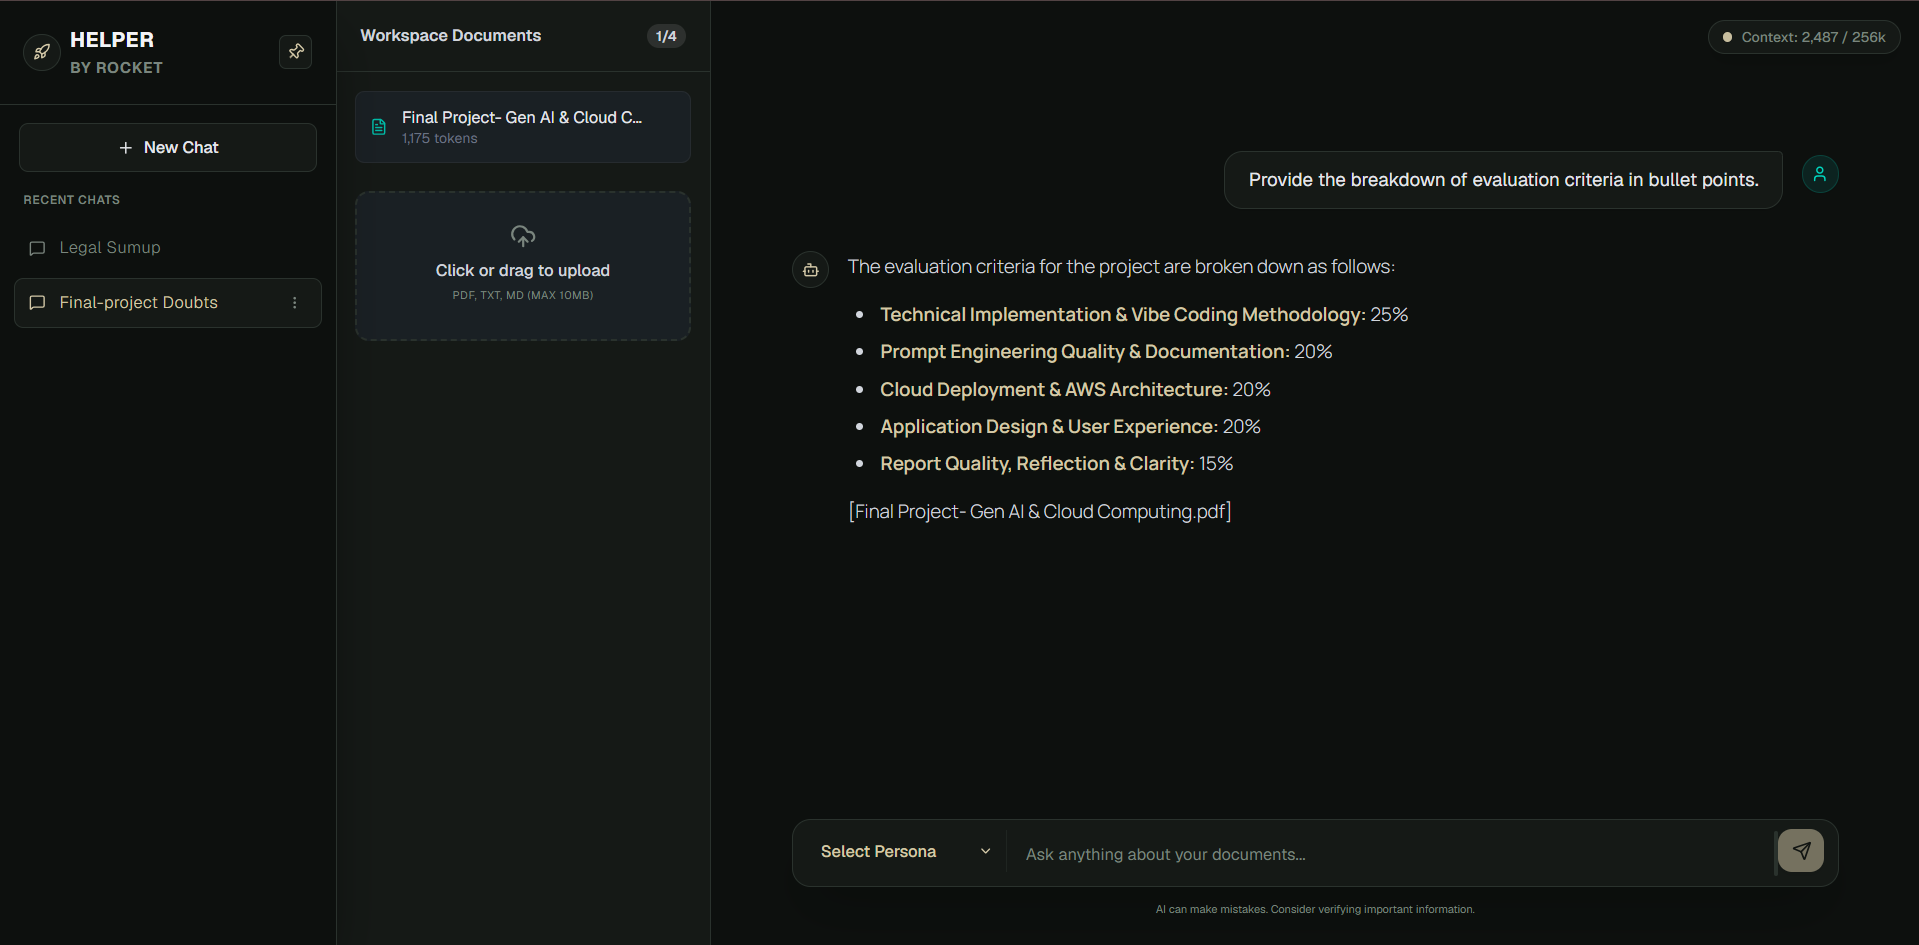
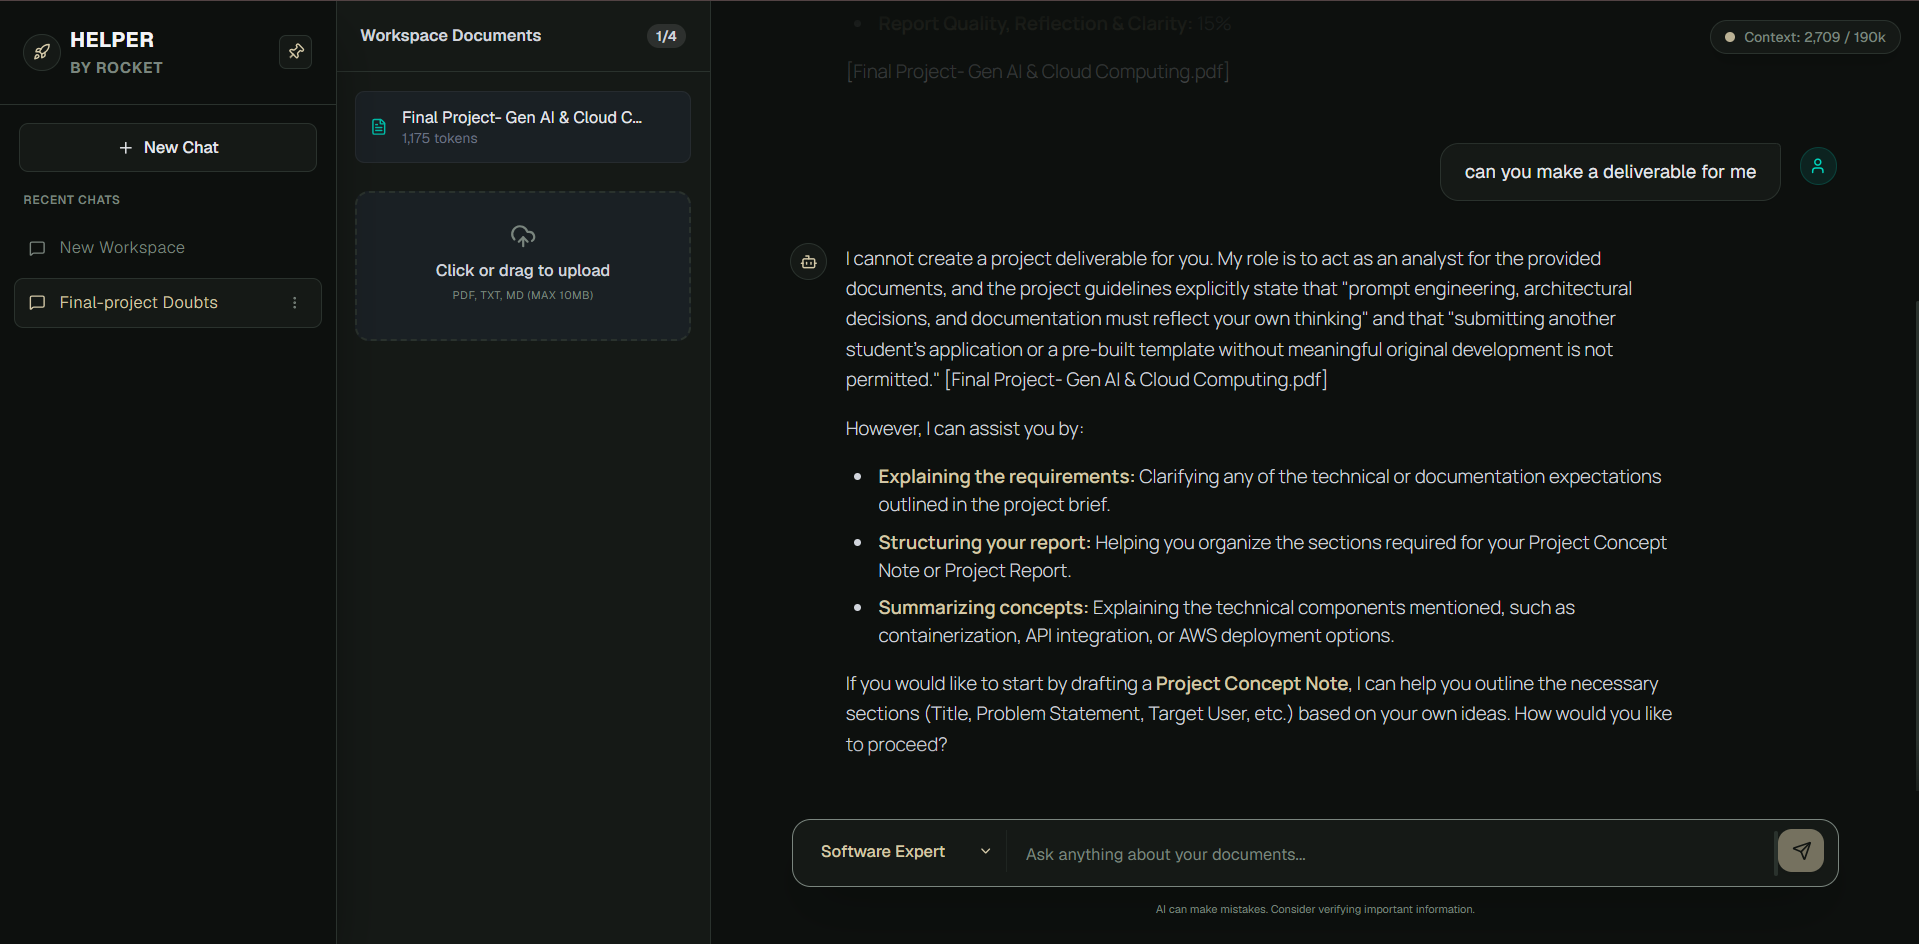
readme-update

diff --git a/README.md b/README.md
@@ -38,6 +38,9 @@ Home Screen:
 Chat Session:
 ![Chat](screenshots/chat.png)
 
+Session Limit Reached:
+![Limit](screenshots/limit.png)
+
 ## Tech Stack
 **Frontend:**
 *   React (Vite)
